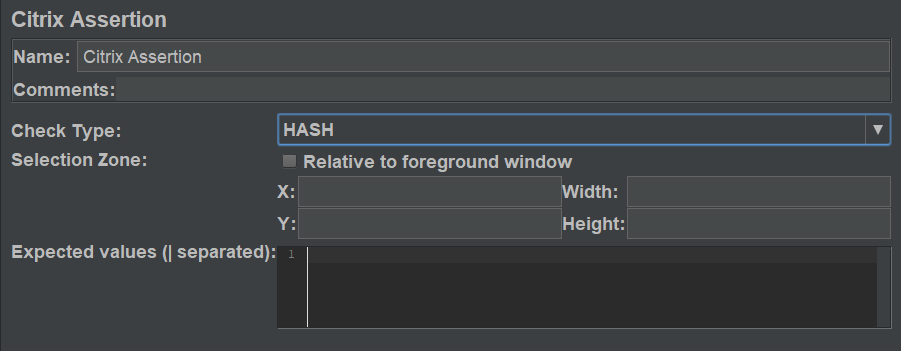
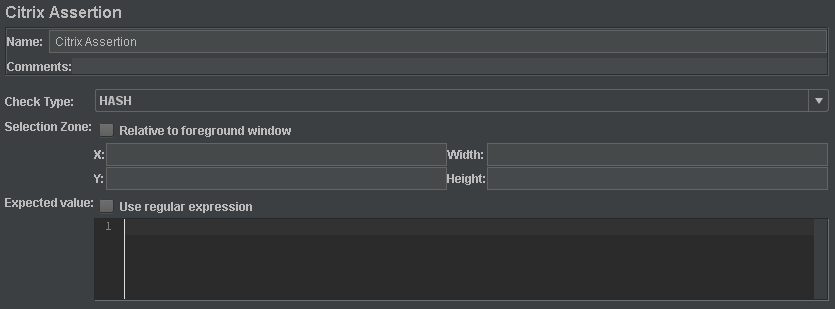
Version 0.4.0

diff --git a/PRE_REQUISITES.md b/PRE_REQUISITES.md
@@ -69,7 +69,7 @@ If you encounter any errors, please check below points manually.
 * Uncompress jmeter-citrix-plugin archive
 * Copy citrix-jmeter-<version>.jar in JMETER_HOME/lib/ext 
 
-    Since version 1.1.1, the plugin provides an installer which checks and sets up the next step. If you encounter any errors, please check this point manually.
+    Since version 1.0, the plugin provides an installer which checks and sets up the next step. If you encounter any errors, please check this point manually.
 
 * Edit jmeter/bin/saveservices.properties and add at the end of file
 
@@ -90,7 +90,7 @@ Here is the list of configurable properties,  **non bold** properties should be 
 | Property name                                 | Description                                                                                                   | Default Value                                                 |
 |--------------------------------------------   |------------------------------------------------------------------------------------------------------------   |------------------------------------------------------------   |
 | bzm.citrix.clause_check_interval              | Interval for the timing of clause checks                                                                      | 1000 (in millis)                                              |
-| bzm.citrix.clause_check_timeout               | Time period (in ms) during which a clause must be validated                                                   | 3000 (in millis)                                              |
+| bzm.citrix.clause_check_timeout               | Default time period (in ms) during which a clause must be validated                                                   | 3000 (in millis)                                              |
 | bzm.citrix.clause_check_max_results           | Maximum number of check results kept in the responseMessage                                                   | 20                                                            |
 | bzm.citrix.connect_timeout                    | Time (in millis) during which a Citrix session must send a CONNECT event (maximum application launch time)    | 5000 (in millis)                                              |
 | **bzm.citrix.default_recording_import_path**      | Directory used to decompress during import recording                                                          | <JMeterHome>/citrix-recordings/<folder with date and time>    |
@@ -159,6 +159,14 @@ To view the Citrix client settings, right-click an item from the Citrix program 
 
 Display settings of 1024 x 768 are recommended.
 
+Alternatively, you can use the following JMeter parameters to try to set display settings of the Citrix session (See citrix.properties file for futher information):
+
+* bzm.citrix.client_factory.client_property.horizontal_resolution 
+* bzm.citrix.client_factory.client_property.vertical_resolution
+* bzm.citrix.client_factory.client_property.color_depth
+
+Keep in mind that Citrix server settings have precedence on the above parameters.
+
 #### Windows Style
  
 Record all windows in the "classic" windows style—not the XP style. This is relevant when using Hash. 
@@ -216,6 +224,17 @@ If you are going to run more than one Citrix Session on JMeter, ensure that the 
 
 ## 7. Commons issues / Limitations
 
+####Inconsistency with ongoing Citrix sessions####
+Due to a limitation of the Citrix receiver, this plug-in does not support sessions already in progress. In this case, the Citrix client does not send any events and the plug-in cannot synchronize with it either for registration or sampling.
+
+Please **make sure to always run new Citrix sessions**.
+
+####No screenshot during sampling####
+Due to a limitation with the Citrix Receiver handling, the samplers that use the following check types do not create screenshot:
+
+* Window Closed
+* Window Gets Foreground
+
 #### Black screenshots
 
 If you get black screenshots while recording, check you graphical card. 
@@ -224,6 +243,18 @@ If you get black screenshots while recording, check you graphical card.
 #### Failed to get session from client
 
 If you get this error, Make sure the AllowSimulationAPI key is present in the above registry and not set to 0, as it enables Citrix ICO functionality. Note that in 64-bit operating systems, these keys should reside under the HKLM\Software\Wow6432Node, node, since the Citrix client is a 32-bit application.  
+
+####Foreground window inconsistency####
+Due to limitation of the Citrix receiver, avoid minimizing any application windows when you want to use the "Relative to foreground" checks because the detection of the foreground area then becomes inconsistent.
+
+####Text interpretation of keystrokes####
+Only the following keys on the keyboard are interpreted as text:
+
+* A to Z
+* 0 to 9
+* Space
+
+The use of any other key or modifier results in the generation of a "Key Sequence" sampler rather than a "Text" sampler.
 
 #### Citrix Error 13 "Unsupported Function"
 
@@ -257,6 +288,7 @@ If running JMeter on virtual machines, check that you're dedicating memory and p
 
 #### Common issues
 
+##### Error code 0x80070005
 Getting error 
 
      The module C:\Program Files (x86)\Citrix\ICA Client\wfica.ocx was loaded but the call to DLLRegisterServer failed with error code 0x80070005
@@ -265,3 +297,12 @@ Ensure you run the regsvr32 and registry updates as Administrator as per:
 
 - https://techjourney.net/the-call-to-dllregisterserver-failed-with-error-code-0x80004005-on-windows/
 - https://social.technet.microsoft.com/Forums/windows/en-US/71037d62-d842-44a3-86df-6ed74df6fc39/0x80070005-error-trying-to-register-dll?forum=itprovistasecurity
+
+##### Citrix user not logged before ...
+At execution of a "Citrix Application launcher" sampler, getting error
+
+    Citrix user not logged before ...
+
+Means the Citrix Client does not signal the user is logged before the **Logon Timeout** set in the sampler.
+First ensure the downloaded ICA file run a new Citrix session because Citrix client does not send any event when running a session already in progress.
+Then you can increase the **Logon Timeout** setting.

diff --git a/README.md b/README.md
@@ -82,7 +82,7 @@ From this point, you can use the **Record Text Input** and **Record Mouse Click*
 **Record Text Input** allow you to record every text input on the citrix window while the button is activated. When you are done with the text recording,
 just click again on the button and the associated samplers will be added in the JMeter tree and in the **View Results Tree** under **Citrix Recorder**.
 If there are many Interactions, they will be grouped under a **Transaction Controller**. 
-You can also chose to use one of the three following buttons to stop the text input capture : 
+You can also choose to use one of the three following buttons to stop the text input capture : 
 
 * **Full Screenshot Check** adds to the created sampler a hash of the entire citrix window that will be analyzed during sampling process.
 * **Selection Screenshot Check** pops up a window with a screenshot of your citrix application. You can select an area of the screenshot that will be hashed and passed to the created sampler.
@@ -151,11 +151,34 @@ This tells the Sampler that the expected state has been reached. For example, as
 
 **Check Type**: 
 
-* HASH makes a hash of the selected area (makes a hash of the full screenshot if there are no coordinates in the selected area).
-* OCR detects the text in the selected area.
-* None makes nothing, which means Sampler will run the interaction and consider result as OK
+* **HASH** makes a hash of the selected area (makes a hash of the full screenshot if there are no coordinates in the selected area).
+* **OCR** detects the text in the selected area.
+* **HASH Changed** detects whether content of the selected area changes using hash computation.
+* **OCR Changed** detects whether content of the selected area changes using text recognition.
+* **Session Closed** detects whether the Citrix session is closed.
+* **Window Exists** ensures a window with an expected title is present in Citrix session. 
+* **Window Closed** ensures a window with an expected title is closed during the check.
+* **Window Gets Foreground** ensures a window with an expected title gets the foreground during the check.
+* **None** makes nothing, which means Sampler will run the interaction and consider result as OK.
 
-If the sampler hash or text (if you used OCR) is different from the one retrieved in the same area during the sampling, the sampler will retry until timeout is reached. If timeout is exceeded and expected state is not reached, the sampler will be in failed state.
+**Selection Zone**:
+
+* **Relative to foreground window**, check this option if you want the coordinates below to be relative to the foreground window during sampling.
+* **X, Y, Width and Height** specify the screen area where the check is performed during sampling.
+
+**Expected value**:
+
+* **Use regular expression**, check this option if you want to use regular expression pattern matching instead of text equality.
+* The textarea contains the expected value depending to the check you want to perform :
+    * **HASH**, the hash value of the selected area.
+    * **OCR**, the text contained in the selected area.
+    * **Window Exists**, the title of the window that must be present.
+    * **Window Closed**, the title of the window that must be closed during the check.
+    * **Window Gets Foreground**, the title of the window that must get the foreground during the check. 
+
+**Timeout**: The maximum time during which the end clause must be honored.
+
+If the end clause state of the sampler is different from the one retrieved in the same area during the recording, the sampler will retry until timeout is reached. If timeout is exceeded and expected state is not reached, the sampler will be in failed state.
 
 #### Assertions
 
@@ -172,10 +195,11 @@ Just select one of the 2 options.
 It must be placed in the scope of **Citrix Interaction**/**Citrix Application Launcher** samplers. 
 You can notice it is very similar to the **End Clause** panel of the samplers.
 
-There are 2 differences:
+There are 3 differences:
 
 * The sampler in its scope must have already completed the end clause or timeouted. Otherwise it would not take a screenshot on which the assertion works.
 * You can't use the "None" check type (would mean the assertion does nothing).
+* You can only use "HASH" or "OCR" because only these can work on a single screenshot .
 
 After sampler has executed, the assertion compares the expected hashes/texts (separated by **|**) in the selected area with what it finds in the screenshot. 
 If none matches, the sampler in scope is marked as failed.
